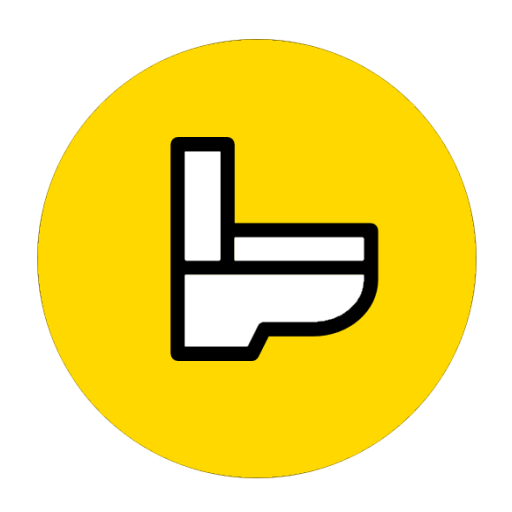
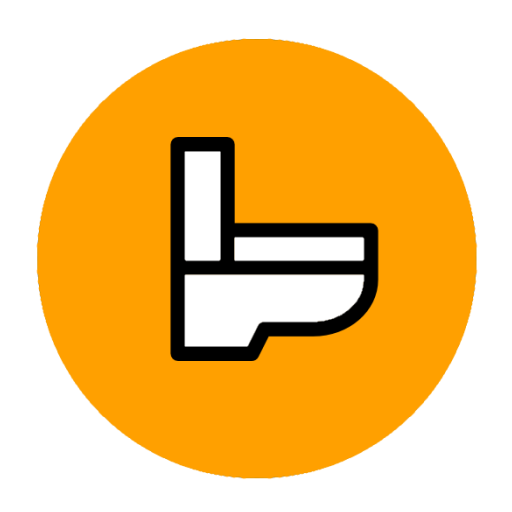
Update Toilet Oranges

diff --git a/Porcelain/app/src/main/java/edu/uw/amaralmunnthorsteinson/porcelain/MainActivity.java b/Porcelain/app/src/main/java/edu/uw/amaralmunnthorsteinson/porcelain/MainActivity.java
@@ -172,8 +172,9 @@ public class MainActivity extends AppCompatActivity
                 Map<String, HashMap<String, Object>> val = (HashMap<String, HashMap<String, Object>>) snapshot.getValue();
 
                 Bitmap icon = BitmapFactory.decodeResource(getResources(), R.mipmap.toilet);
-                Bitmap smaller = Bitmap.createScaledBitmap(icon, icon.getWidth() / 2, icon.getHeight() / 2, false);
+                Bitmap smaller = Bitmap.createScaledBitmap(icon, (icon.getWidth() / 4) * 3, (icon.getHeight() / 4) * 3, false);
                 BitmapDescriptor toil = BitmapDescriptorFactory.fromBitmap(smaller);
+
                 //LatLng point = new LatLng(-23,44.00);
                 //Place p = new Place("A Bathroom", point, 3.0, "A clean and safe environment");
                 //Log.v(TAG, "" + val);

diff --git a/Porcelain/app/src/main/java/edu/uw/amaralmunnthorsteinson/porcelain/AddToiletActivity.java b/Porcelain/app/src/main/java/edu/uw/amaralmunnthorsteinson/porcelain/AddToiletActivity.java
@@ -51,7 +51,7 @@ public class AddToiletActivity extends AppCompatActivity {
 
         View parent = findViewById(android.R.id.content);
         setupUI(parent);
-        
+
         Double latitude = getIntent().getDoubleExtra(MainActivity.LATITUDE, 0);
         Double longitude = getIntent().getDoubleExtra(MainActivity.LONGITUDE, 0);
         mLocation = new LatLng(latitude, longitude);
